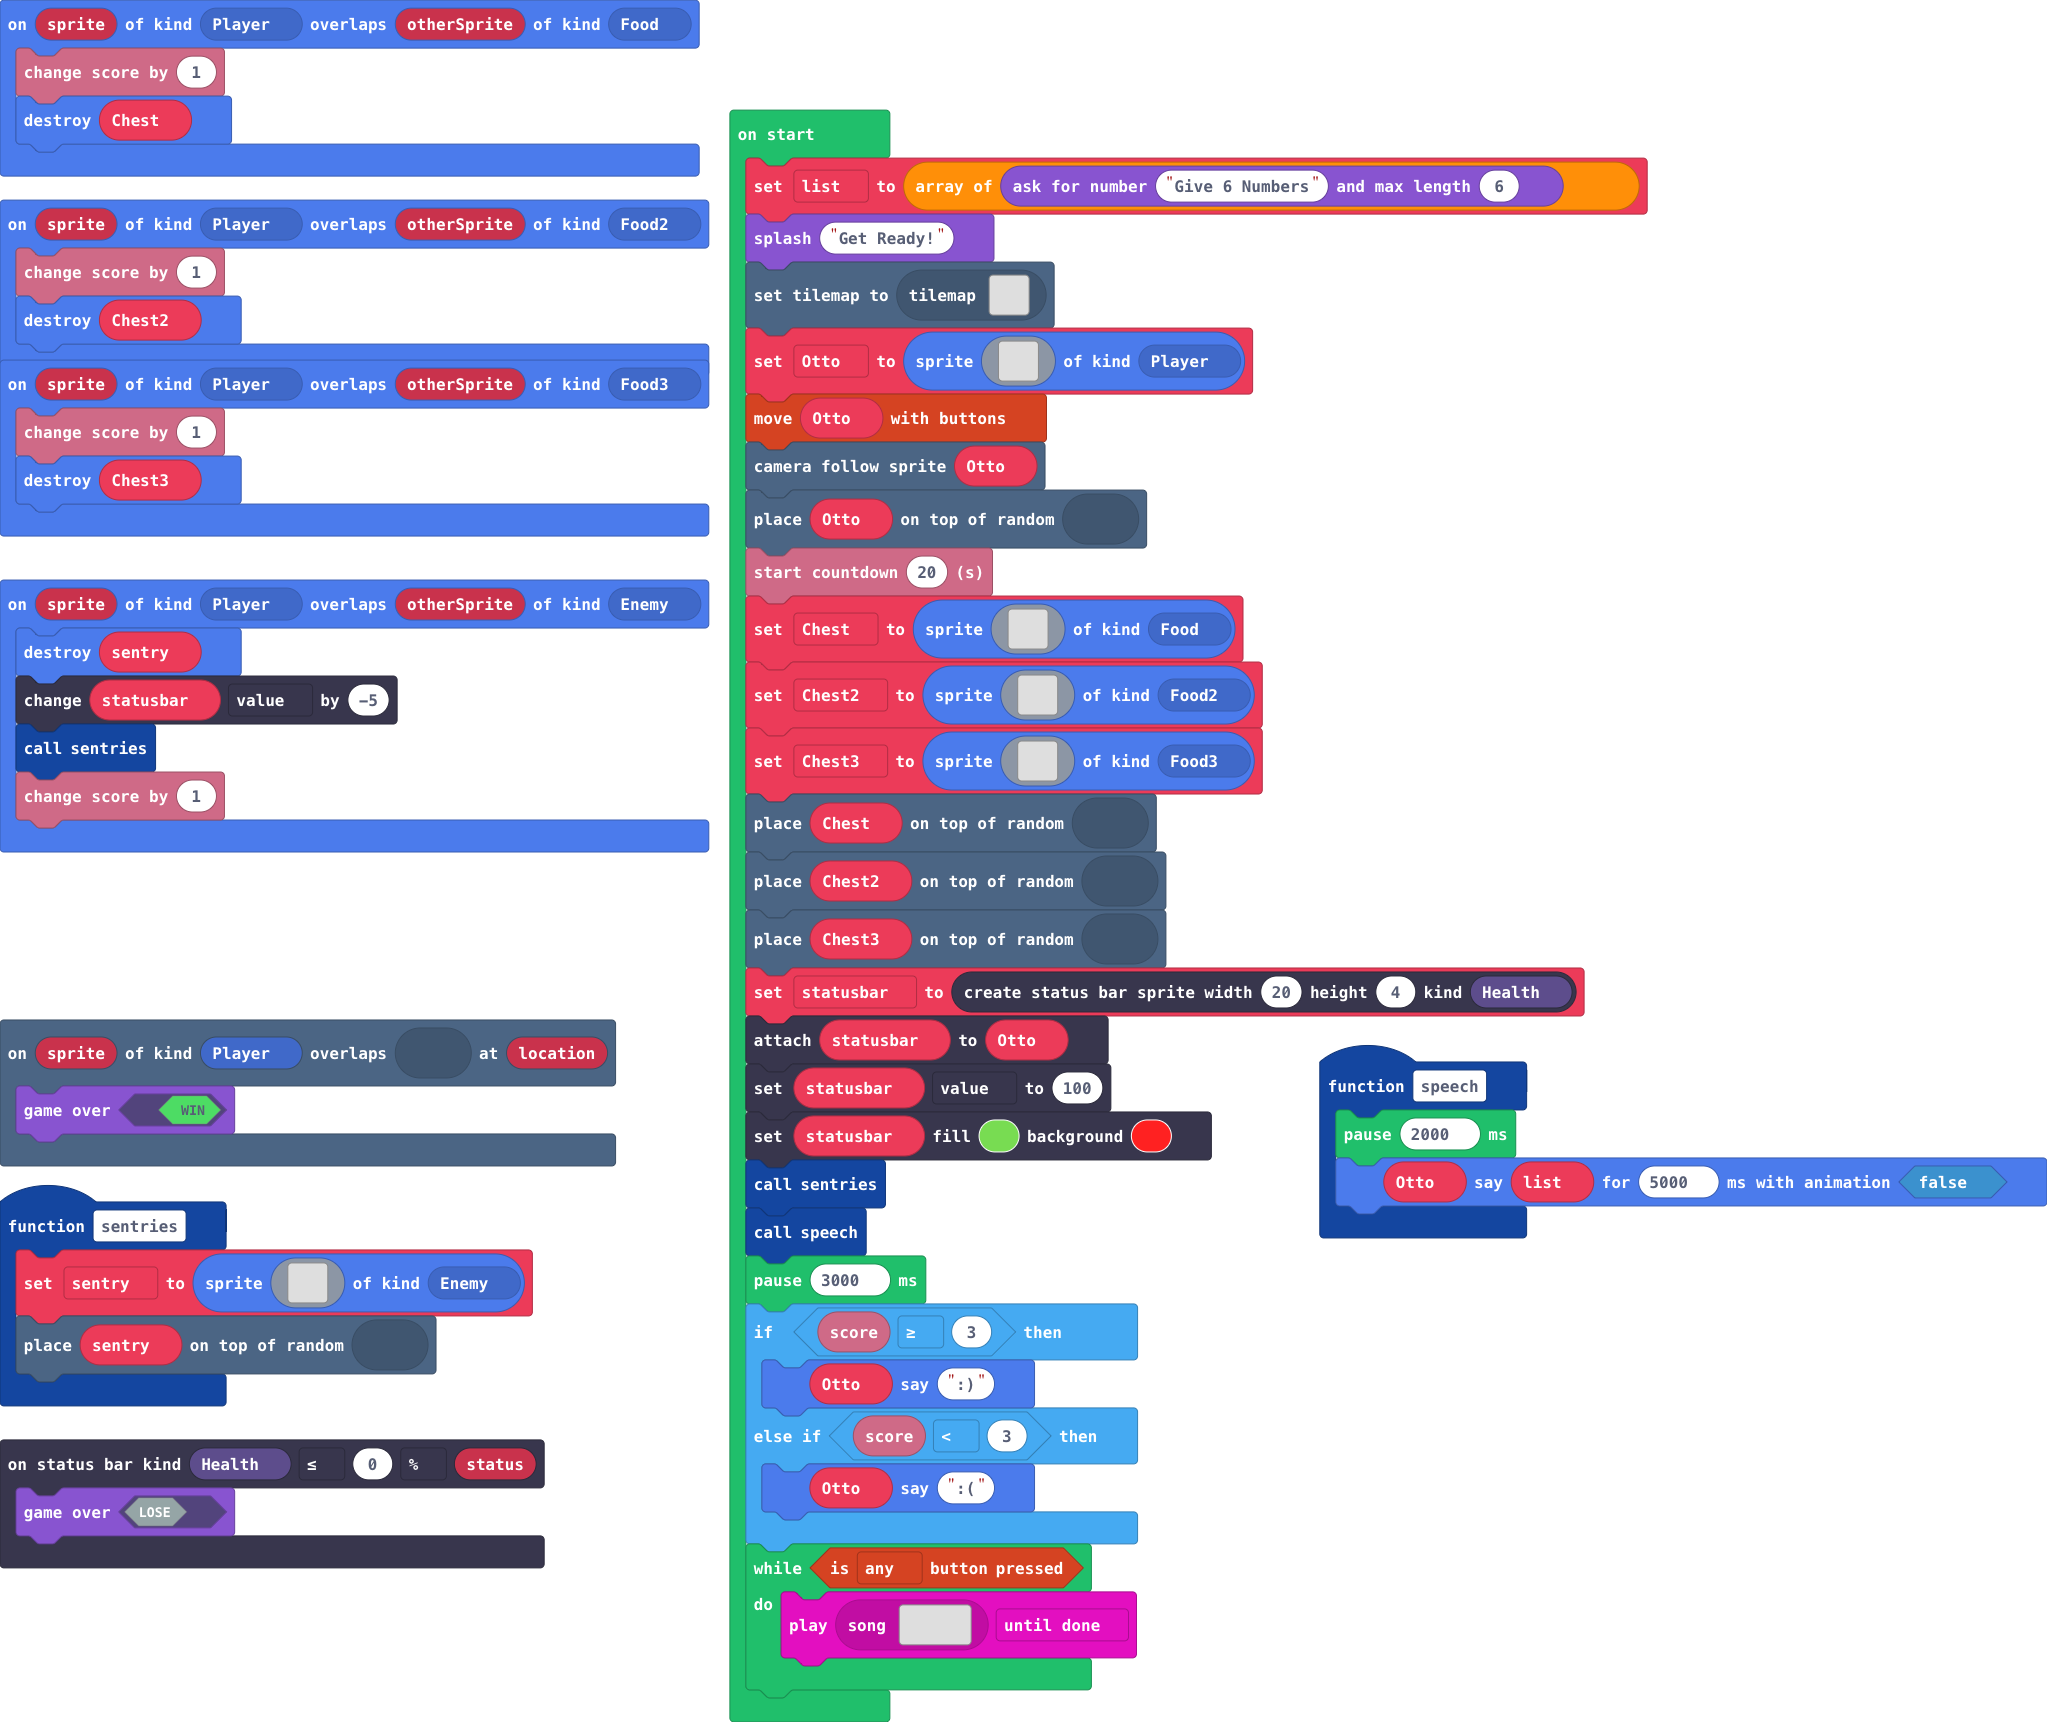
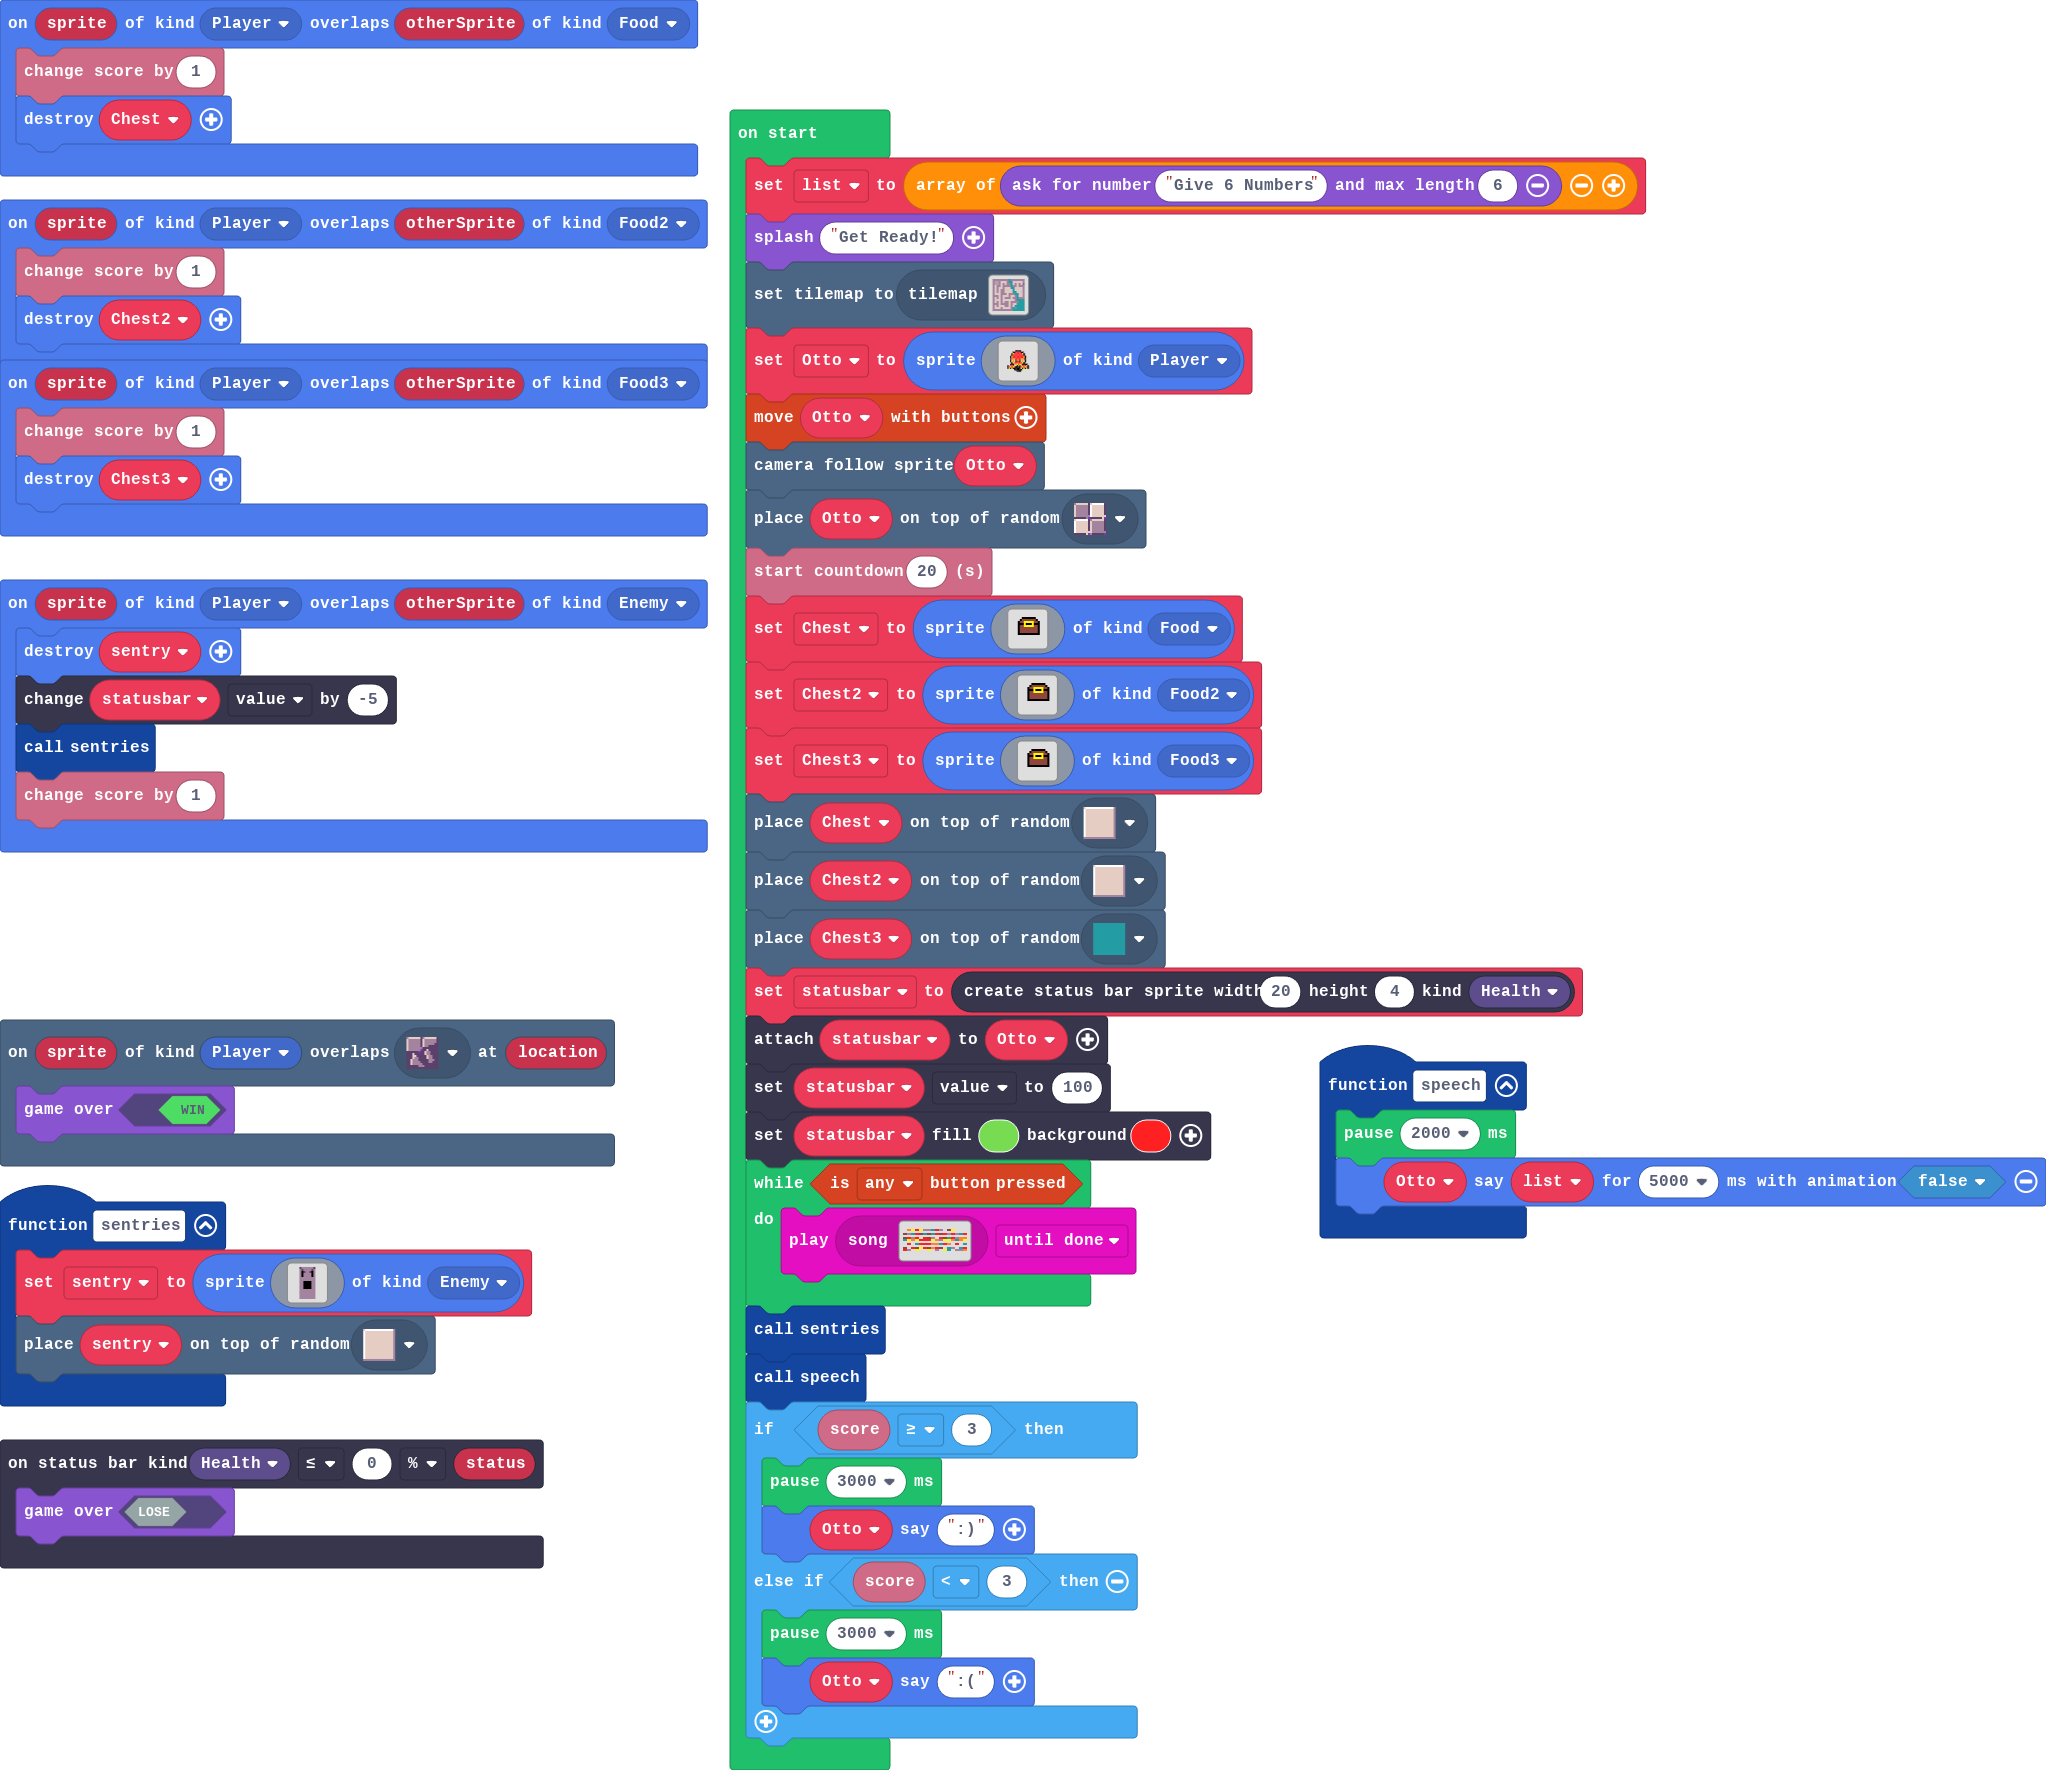
Update main.blocks, main.ts

Changed region(s): [[0.0, 0.0, 1.0, 0.9849], [0.0, 0.554, 0.3079, 0.9233]]

diff --git a/main.ts b/main.ts
@@ -152,14 +152,15 @@ statusbar = statusbars.create(20, 4, StatusBarKind.Health)
 statusbar.attachToSprite(Otto)
 statusbar.value = 100
 statusbar.setColor(7, 2)
-sentries()
-speech()
-pause(3000)
-if (info.score() >= 3) {
-    Otto.sayText(":)")
-} else if (info.score() < 3) {
-    Otto.sayText(":(")
-}
 while (controller.anyButton.isPressed()) {
[1 lines of base64/hex data omitted]
+}
+sentries()
+speech()
+if (info.score() >= 3) {
+    pause(3000)
+    Otto.sayText(":)")
+} else if (info.score() < 3) {
+    pause(3000)
+    Otto.sayText(":(")
 }
